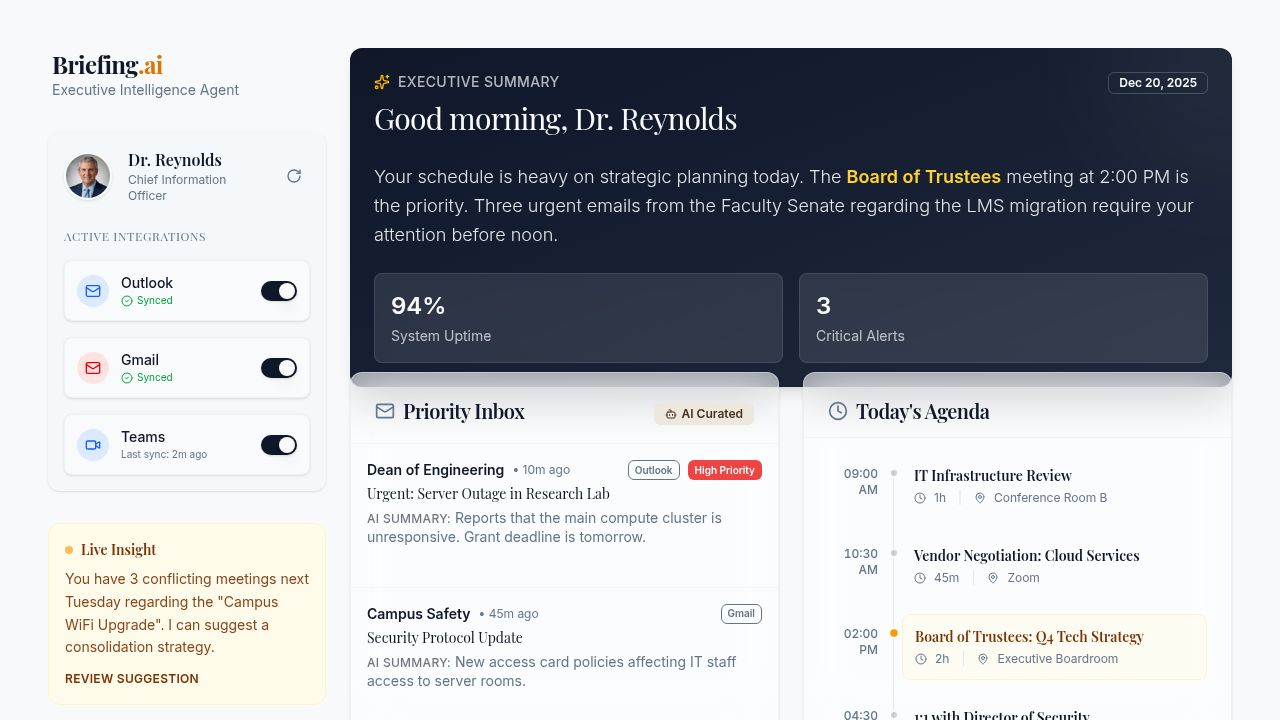
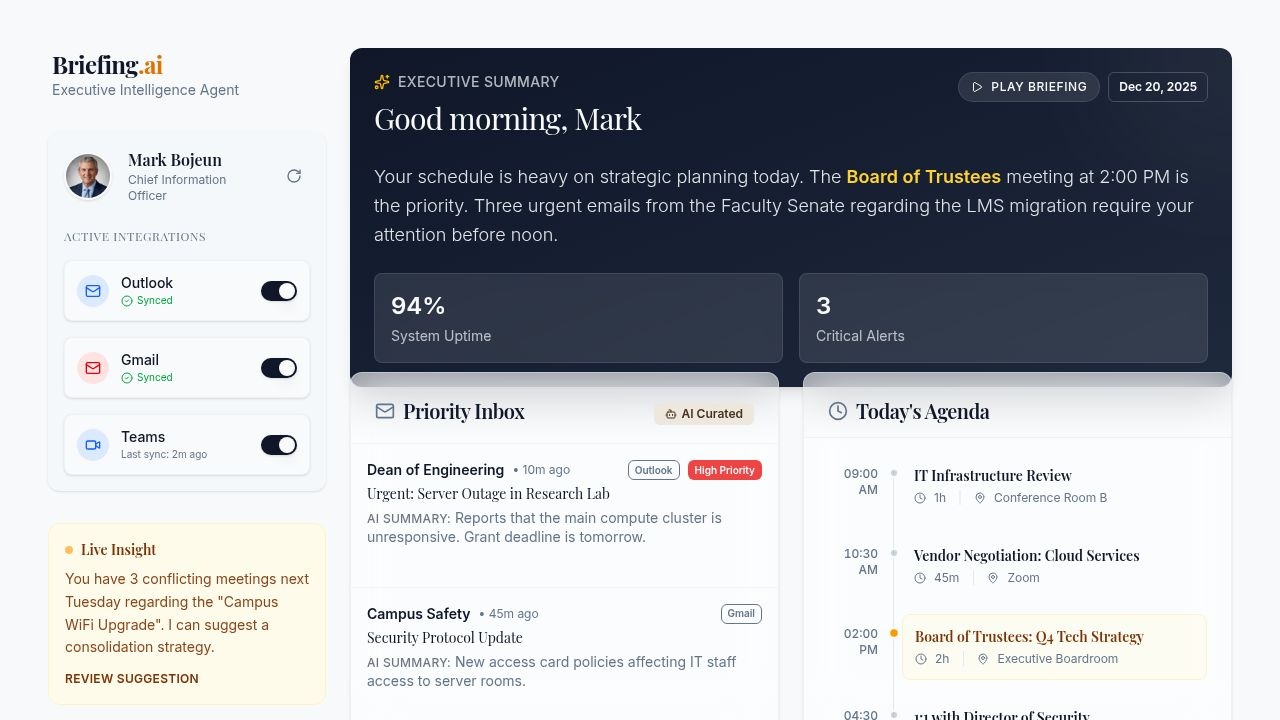
Update briefing for Mark Bojeun
Personalize the briefing dashboard by updating the greeting and user information to reflect the new user, Mark Bojeun, and his role as Chief Information Officer, including updating the avatar fallback to MB.

Replit-Commit-Author: Agent
Replit-Commit-Session-Id: 6290dd3c-d724-47bd-995e-0aa2fd847a26
Replit-Commit-Checkpoint-Type: full_checkpoint
Replit-Commit-Event-Id: 58880cfe-b5e6-41c1-a0ae-c06d3801ec4a
Replit-Commit-Screenshot-Url: https://storage.googleapis.com/screenshot-production-us-central1/a40118d5-559c-4ab8-b450-2e974217d69e/6290dd3c-d724-47bd-995e-0aa2fd847a26/kg8vx2H
Replit-Helium-Checkpoint-Created: true

Changed region(s): [[0.75, 0.0917, 0.9375, 0.1528], [0.4375, 0.1528, 0.5938, 0.1833], [0.0938, 0.2139, 0.1875, 0.2444]]

diff --git a/client/src/components/briefing/integrations-panel.tsx b/client/src/components/briefing/integrations-panel.tsx
@@ -9,11 +9,11 @@ export function IntegrationsPanel() {
     <Card className="p-4 bg-muted/30 border-none">
       <div className="flex items-center gap-4 mb-6">
         <Avatar className="h-12 w-12 border-2 border-background shadow-sm">
-          <AvatarImage src={cioAvatar} alt="Dr. Reynolds" />
-          <AvatarFallback>DR</AvatarFallback>
+          <AvatarImage src={cioAvatar} alt="Mark Bojeun" />
+          <AvatarFallback>MB</AvatarFallback>
         </Avatar>
         <div className="flex-1">
-          <h3 className="font-serif font-semibold text-foreground">Dr. Reynolds</h3>
+          <h3 className="font-serif font-semibold text-foreground">Mark Bojeun</h3>
           <p className="text-xs text-muted-foreground">Chief Information Officer</p>
         </div>
         <button className="text-muted-foreground hover:text-foreground transition-colors p-2 rounded-full hover:bg-background">

diff --git a/client/src/components/briefing/daily-summary.tsx b/client/src/components/briefing/daily-summary.tsx
@@ -24,7 +24,7 @@ export function DailySummary() {
                 <span>Executive Summary</span>
               </div>
               <CardTitle className="text-3xl font-serif font-light leading-tight">
-                Good morning, Dr. Reynolds
+                Good morning, Mark
               </CardTitle>
             </div>
             <div className="flex gap-2">
